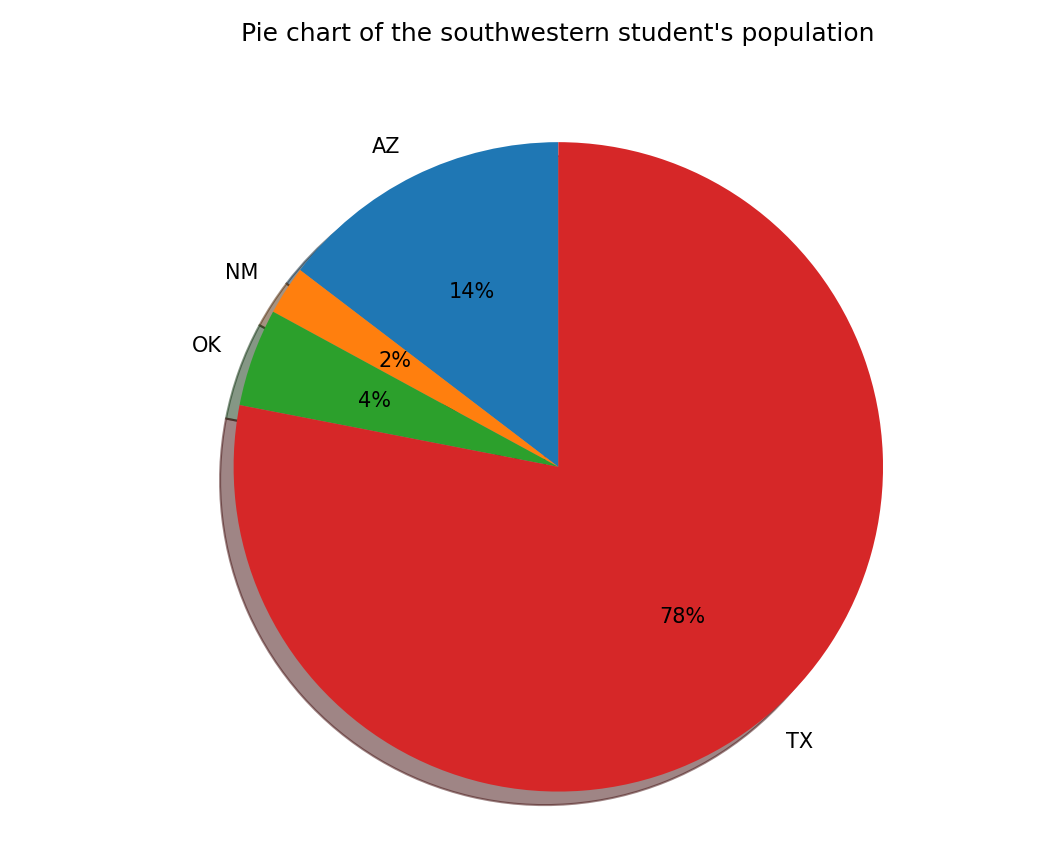
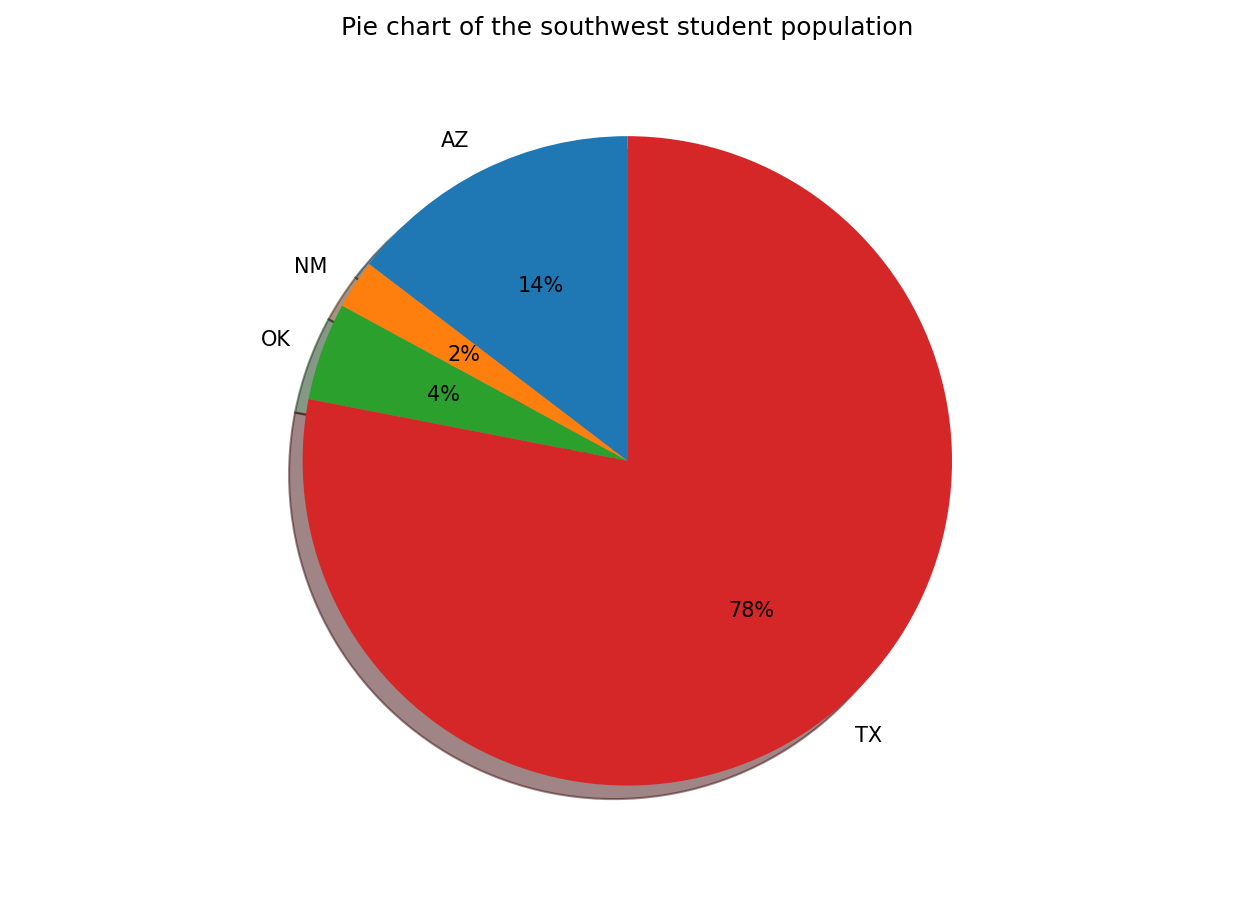
this is sexy enough

diff --git a/templates/populations.html b/templates/populations.html
@@ -7,9 +7,39 @@
     <title></title>
 </head>
 <body>
-    <h1>Students from the {{population}}</h1>
+    <div style="display:flex; justify-content: center;">
+        <h2>Students from the {{population}}</h2>
+    </div>
+    <br> 
     <div style="display:flex; justify-content: center; margin-top: 0px;">
         <img src="/static/{{population}}_chart.png" alt="Pie chart of student population" width="600", height="400" >
     </div>
+    <br>
+    <table style="display:flex; justify-content: center;">
+        <tr>
+            <th style="text-align:center; border: 1px solid black; border-collapse: collapse;"> Dorms </th>
+            <th style="text-align:center; border: 1px solid black; border-collapse: collapse;"> Number of students from the {{population}}</th>
+        </tr>
+        {% for dorm in dic.keys()%}
+            <tr>
+                <td style="text-align:center; border: 1px solid black; border-collapse: collapse;">{{dorm}}</td>
+                <td style="text-align:center; border: 1px solid black; border-collapse: collapse;">{{dic[dorm]}}</td> 
+            </tr>
+        {%endfor%}
+    </table>
+    <br>
+    <h3 style="display:flex; justify-content: center; margin-top: 0px;">List of {{length}} students</h3>
+    {% for student in students%}
+    <div style="display:flex; justify-content: center;">
+        <a href="{{ url_for('get_profile', name=student.name)}}">
+            {%if student.name.split()[2]%}
+                {{student.name.split()[1]}} {{student.name.split()[2][0]}}. {{student.name.split()[0][1:-1]}}
+            {%else%}
+                {{student.name.split()[1]}} x. {{student.name.split()[0][1:-1]}}
+            {%endif%}
+        </a> 
+    </div>
+    {% endfor%}
+    <a style="display:flex; justify-content: center;" href="{{url_for('get_home')}}"> Back to search</a>
 </body>
 </html>

diff --git a/templates/home.html b/templates/home.html
@@ -11,10 +11,14 @@
         Find your friends
     </div>
     <br>
+    <div style="display:flex; justify-content: center; margin-top: 0px;">
+        <img  src="/static/gcc_logo.png">
+    </div>
+    <br>
     <div class="row" style="display:flex; justify-content: center; margin-top: 0px;">       
         <form method="POST">
             {{form.hidden_tag()}}
-            {{form.field()}}
+            {{form.field(placeholder="Search by name")}}
             {{form.submit()}}
         </form>
     </div>
@@ -27,12 +31,12 @@
         </div>
         <br>
     </div>
-    <br>
     {% for chart in charts%}
+    {%if chart.split('_')[0] != 'college'%}
     <div style="display:flex; justify-content: center; margin-top: 0px;">
-        <a href="{{url_for('get_population', population=chart.split('_')[0])}}">Learn about students from {{chart.split('_')[0]}}</a>
+            <a href="{{url_for('get_population', population=chart.split('_')[0])}}">Learn about students from the {{chart.split('_')[0]}}</a>
     </div>
-    <br>
+    {%endif%}
     <div style="display:flex; justify-content: center; margin-top: 0px;">
         <img src="/static/{{chart}}" alt="Pie chart of student population" width="600", height="400" >
     </div>

diff --git a/templates/profile.html b/templates/profile.html
@@ -34,6 +34,7 @@
     {%endif%}
     <br>
     Roomates:
+    {% if roomates %}
     {% for roomate in roomates%}
         {%if roomate.name!=student.name%}
             <a href="{{ url_for('get_profile', name=roomate.name)}}"> 
@@ -46,7 +47,9 @@
             <br>
         {%endif%}
     {%endfor%}
-     
+    {%else%}
+            {{student.name.split()[1]}} lives in a single not tied to a suite.
+    {%endif%} 
 </body>
 <br>
 <a href="{{url_for('get_home')}}"> Back to search</a>

diff --git a/app.py b/app.py
@@ -9,6 +9,9 @@ app = Flask(__name__)
 app.config['SEND_FILE_MAX_AGE_DEFAULT'] = 0
 app.config['SECRET_KEY'] = 'aquickbrownfoxjumpedoverthelazydog'
 
+dorms = {'HO':'Hopeman', 'KE':'Ketler', 'HI':'Hicks','AL':'Alumni', 'HA':'Harker', 'LI':'Lincoln',
+         'ME':'Memorial', 'MP':'MAP', 'SO':'South MEP', 'NO':'North MEP', 'WE':'West MEP',
+         'Co': 'Not living on campus', 'CH':'Colonial Hall' }
 
 df = pd.read_csv('static/cleantxt.txt', delimiter='\t\t', engine='python')
 df.columns = ['name', 'year', 'room', 'mailroom', 'town', 'state', 'email']
@@ -49,10 +52,8 @@ def get_student(name):
 def get_profile(name):
     frame = df.loc[df['name'].str.contains(name)]
     temp = None
-    dic={'GR':'Graduate', 'FF': 'Freshman', 'FR': 'Freshman', 'SO': 'Sophomore', 'JR':'Junior', 'SR':'Senior'}
-    dorms = {'HO':'Hopeman', 'KE':'Ketler', 'HI':'Hicks','AL':'Alumni', 'HA':'Harker', 'LI':'Lincoln',
-         'ME':'Memorial', 'MP':'MAP', 'SO':'South MEP', 'NO':'North MEP', 'WE':'West MEP',
-         'Co': 'Not living on campus', 'CH':'Colonial Hall' }
+    dic={'GR':'Graduate', 'FF': 'Freshman', 'FR': 'Freshman', 'SO': 'Sophomore', 'JR':'Junior', 'SR':'Senior', 'SS': 'Senior'}
+    gender={'HO':'M', 'KE':'M', 'HI':'M', 'AL':'M', 'HA':'F', 'LI':'M', 'ME':'M', 'MP':'F', 'SO':'F', 'NO':'F', 'WE':'F', 'Co':'UN', 'CH':'UN'}
     for index, row in frame.iterrows():
         state = ''
         if str(row['state']).strip()=='nan':
@@ -61,18 +62,49 @@ def get_profile(name):
             state = row['state']
         temp = student(row['name'], row['year'], row['town'], state, row['email'], row['mailroom'], row['room'])
         roomates = get_roomates(row['room'])
+        if len(roomates)==1:
+            roomates = None
     return render_template('profile.html', student=temp, dic=dic, dorms=dorms, roomates=roomates)
 
 def get_roomates(room):
     students = []
     print(room)
+    has_letters = False
+    new_room=room
     if(room[len(room)-1] in 'ABCDEFGHIJKLMNOPQRSTUVWXYZ'):
-        room = room[:-1]
-    frame = df.loc[df['room'].str.contains(room)]
+        new_room = room[:-1]
+        has_letters = True
+    if len(new_room[2:])!=2:
+        frame = df.loc[df['room'].str.contains(new_room)]
+        print(frame)
+    elif len(new_room[2:])==2 and has_letters:
+        frame = df.loc[df['room'].str.contains(new_room)].loc[df['room'].str.match('[A-Z][A-Z][1-9][1-9](A|B)')]
+    elif len(new_room[2:])==2 and not has_letters:
+        frame = df.loc[df['room'].str.contains(new_room)].loc[df['room'].str.endswith(room)]
     for index, row in frame.iterrows():
         students.append(student(row['name'], row['year'], row['town'], row['state'], row['email'], row['mailroom'], row['room']))
     return students
 
+def get_states(key):
+    table = pd.read_csv(f'{key}.csv')
+    states = table['Code'].values
+    return list(states)
+
 @app.route('/population/<string:population>')
 def get_population(population):
-    return render_template('populations.html', population=population)
+    table = pd.read_csv(f'{population}.csv')
+    states = table['Code'].values
+    students = []
+    for index, row in df.iterrows():
+        if row['state'] in states:
+            students.append(student(row['name'], row['year'], row['town'], row['state'], row['email'], row['mailroom'], row['room']))
+    distribution_dorm = {}
+    for state in states:
+        frame = df.loc[df['state']==state]
+        print(frame)
+        for dorm in dorms.keys():
+            if dorms[dorm] in distribution_dorm.keys():
+                distribution_dorm[dorms[dorm]]+= frame.loc[frame['room'].str.contains(dorm)].count()['name']
+            else:
+                distribution_dorm[dorms[dorm]]= frame.loc[frame['room'].str.contains(dorm)].count()['name']
+    return render_template('populations.html', population=population, students=students, length=len(students), dic=distribution_dorm)

diff --git a/chart_gender.py b/chart_gender.py
@@ -1,0 +1,45 @@
+import pandas as pd
+import matplotlib.pyplot as plt
+
+gender={'HO':'M', 'KE':'M', 'HI':'M', 'AL':'M', 'HA':'F', 'LI':'M', 'ME':'M', 'MP':'F', 'SO':'F', 'NO':'F', 'WE':'F', 'Co':'UN', 'CH':'UN'}
+
+def get_states(key):
+    table = pd.read_csv(f'{key}.csv')
+    states = table['Code'].values
+    return list(states)
+
+key = 'csvData'
+df = pd.read_csv('static\cleantxt.txt', delimiter='\t\t', engine='python')
+df.columns = ['name', 'year', 'room', 'mailroom', 'town', 'state', 'email']
+
+table = pd.read_csv(f'{key}.csv')
+states = table['Code'].values
+dic = {}
+sum = 0
+nmales = 0
+nfemales = 0
+regx_male = '((HO|KE|HI|AL|HA|LI|ME)[0-9][0-9][0-9](A|B))|(HO|KE|HI|AL|HA|LI|ME)[0-9][0-9][0-9]|((HO|KE|HI|AL|HA|LI|ME)[0-9][0-9](A|B))|(HO|KE|HI|AL|HA|LI|ME)[0-9][0-9]'
+regx_female = '((MP|SO|NO|WE)[0-9][0-9][0-9](A|B))|((MP|SO|NO|WE)[0-9][0-9][0-9])|((MP|SO|NO|WE)[0-9][0-9](A|B))|((MP|SO|NO|WE)[0-9][0-9])'
+for state in states:
+    nmales+=df.loc[df['state']==state].loc[df['room'].str.match(regx_male)].count()['name']
+    nfemales+= df.loc[df['state']==state].loc[df['room'].str.match(regx_female)].count()['name']
+
+
+print(nmales+104)
+print(nfemales+104)
+
+val1 = nmales+104
+val2 = nfemales+104
+
+sum = val1 + val2
+val1/=sum
+val2/=sum
+normal = [val1, val2]
+genders = ['M', 'F']
+print(normal)
+
+fig1, ax1 = plt.subplots()
+ax1.pie(normal, explode = (0.1,0), labels=genders, autopct='%d%%', shadow=True, startangle=90)
+ax1.axis('equal')
+plt.title(f'Pie chart of the student population distributed by gender \n\n')
+plt.show()

diff --git a/chart_states.py b/chart_states.py
@@ -1,5 +1,11 @@
 import pandas as pd
 import matplotlib.pyplot as plt
+
+def get_states(key):
+    table = pd.read_csv(f'{key}.csv')
+    states = table['Code'].values
+    return list(states)
+
 key = 'csvData'
 df = pd.read_csv('static\cleantxt.txt', delimiter='\t\t', engine='python')
 df.columns = ['name', 'year', 'room', 'mailroom', 'town', 'state', 'email']
@@ -8,11 +14,9 @@ table = pd.read_csv(f'{key}.csv')
 states = table['Code'].values
 dic = {}
 sum = 0
-
 for state in states:
     sum+=df.loc[df['state']==state].count()['name']
     dic[state] = df.loc[df['state']==state].count()['name']
-
 for state in states:
     dic[state]/=sum
     dic[state]*=100
@@ -23,5 +27,5 @@ for state in states:
 fig1, ax1 = plt.subplots()
 ax1.pie(list(dic.values()), labels=list(dic.keys()), autopct='%d%%', shadow=True, startangle=90)
 ax1.axis('equal')
-plt.title(f'Pie chart of the student\'s population\n\n')
+plt.title(f'Pie chart of the student population\n\n')
 plt.show()

diff --git a/scratch.py b/scratch.py
@@ -1,0 +1,11 @@
+import pandas as pd
+import matplotlib.pyplot as plt
+
+key = 'west'
+df = pd.read_csv('static\cleantxt.txt', delimiter='\t\t', engine='python')
+df.columns = ['name', 'year', 'room', 'mailroom', 'town', 'state', 'email']
+
+table = pd.read_csv(f'{key}.csv')
+states = table['Code'].values
+
+
